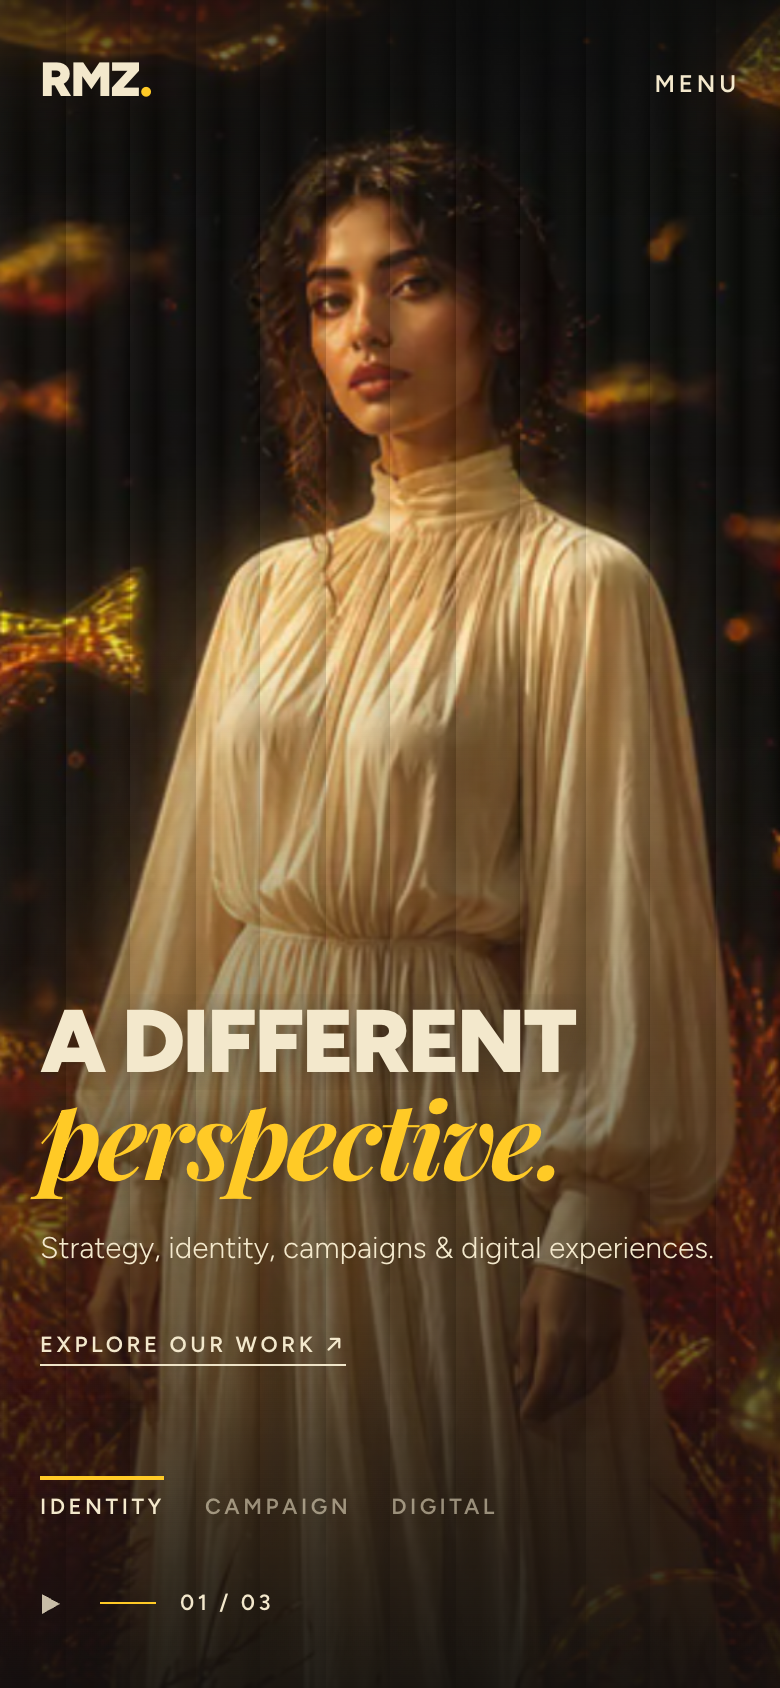
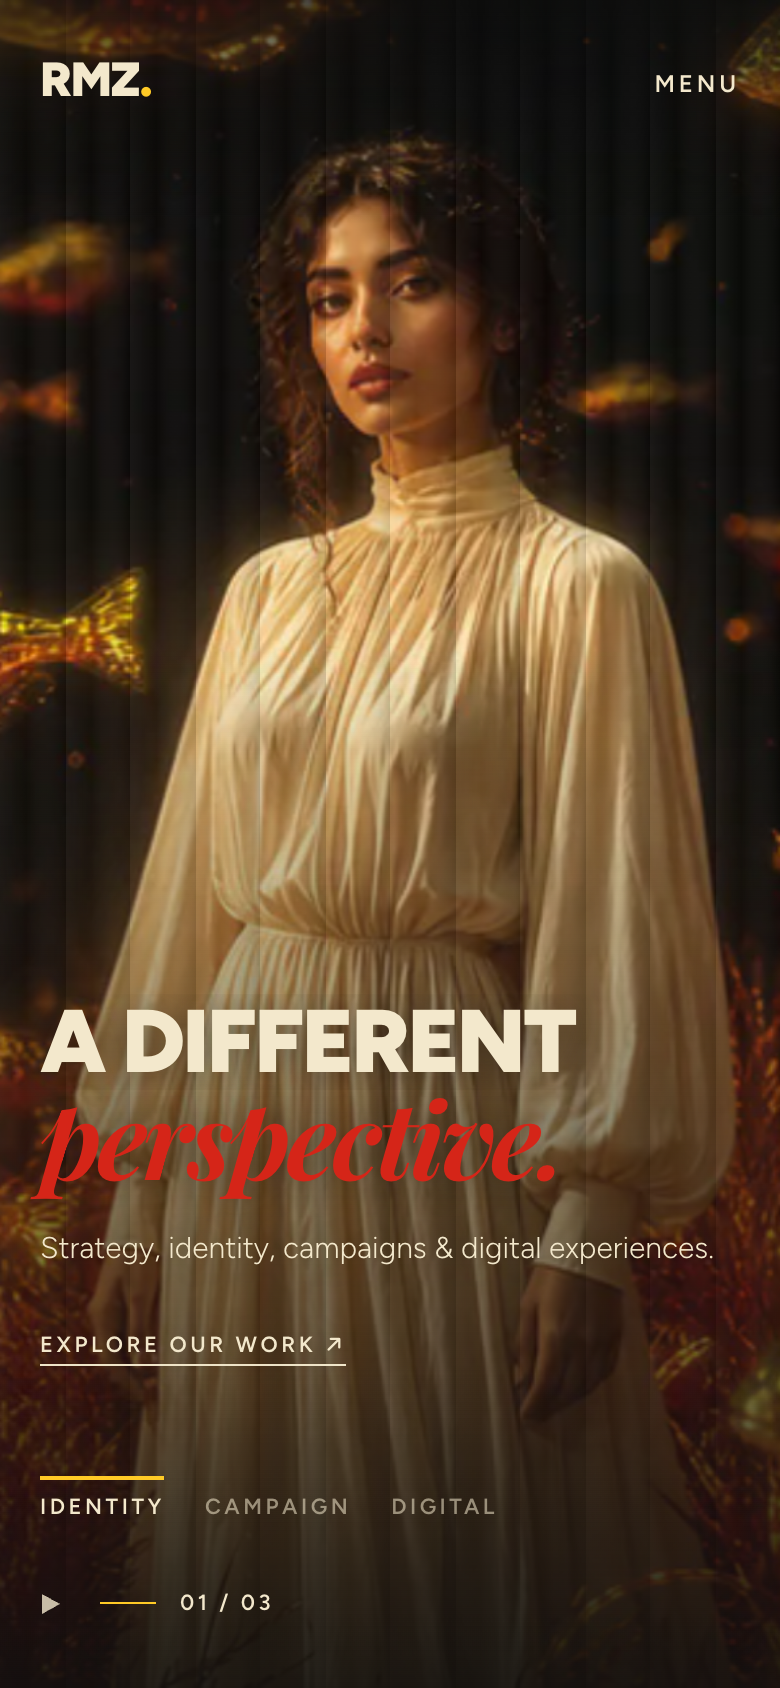
style(lab): hero italic line in RMZ red

Changed region(s): [[0.0308, 0.6469, 0.7077, 0.7085]]

diff --git a/src/components/home/hero-worlds/HeroThreeWorlds.tsx b/src/components/home/hero-worlds/HeroThreeWorlds.tsx
@@ -243,7 +243,7 @@ export function HeroThreeWorlds({ hero }: { hero: HeroContent }) {
                     <span className="hw-line t-display text-[clamp(38px,11.4vw,50px)] text-cream md:text-[clamp(46px,5.3vw,84px)]" style={{ ["--l" as string]: 0 }}>
                       <span>{p.lead}</span>
                     </span>
-                    <span className="hw-line t-italic mt-1.5 text-[clamp(46px,13.6vw,60px)] text-yellow md:mt-2 md:text-[clamp(58px,6.7vw,104px)]" style={{ ["--l" as string]: 1 }}>
+                    <span className="hw-line t-italic mt-1.5 text-[clamp(46px,13.6vw,60px)] text-red md:mt-2 md:text-[clamp(58px,6.7vw,104px)]" style={{ ["--l" as string]: 1 }}>
                       <span>{p.emphasis}</span>
                     </span>
                   </span>
